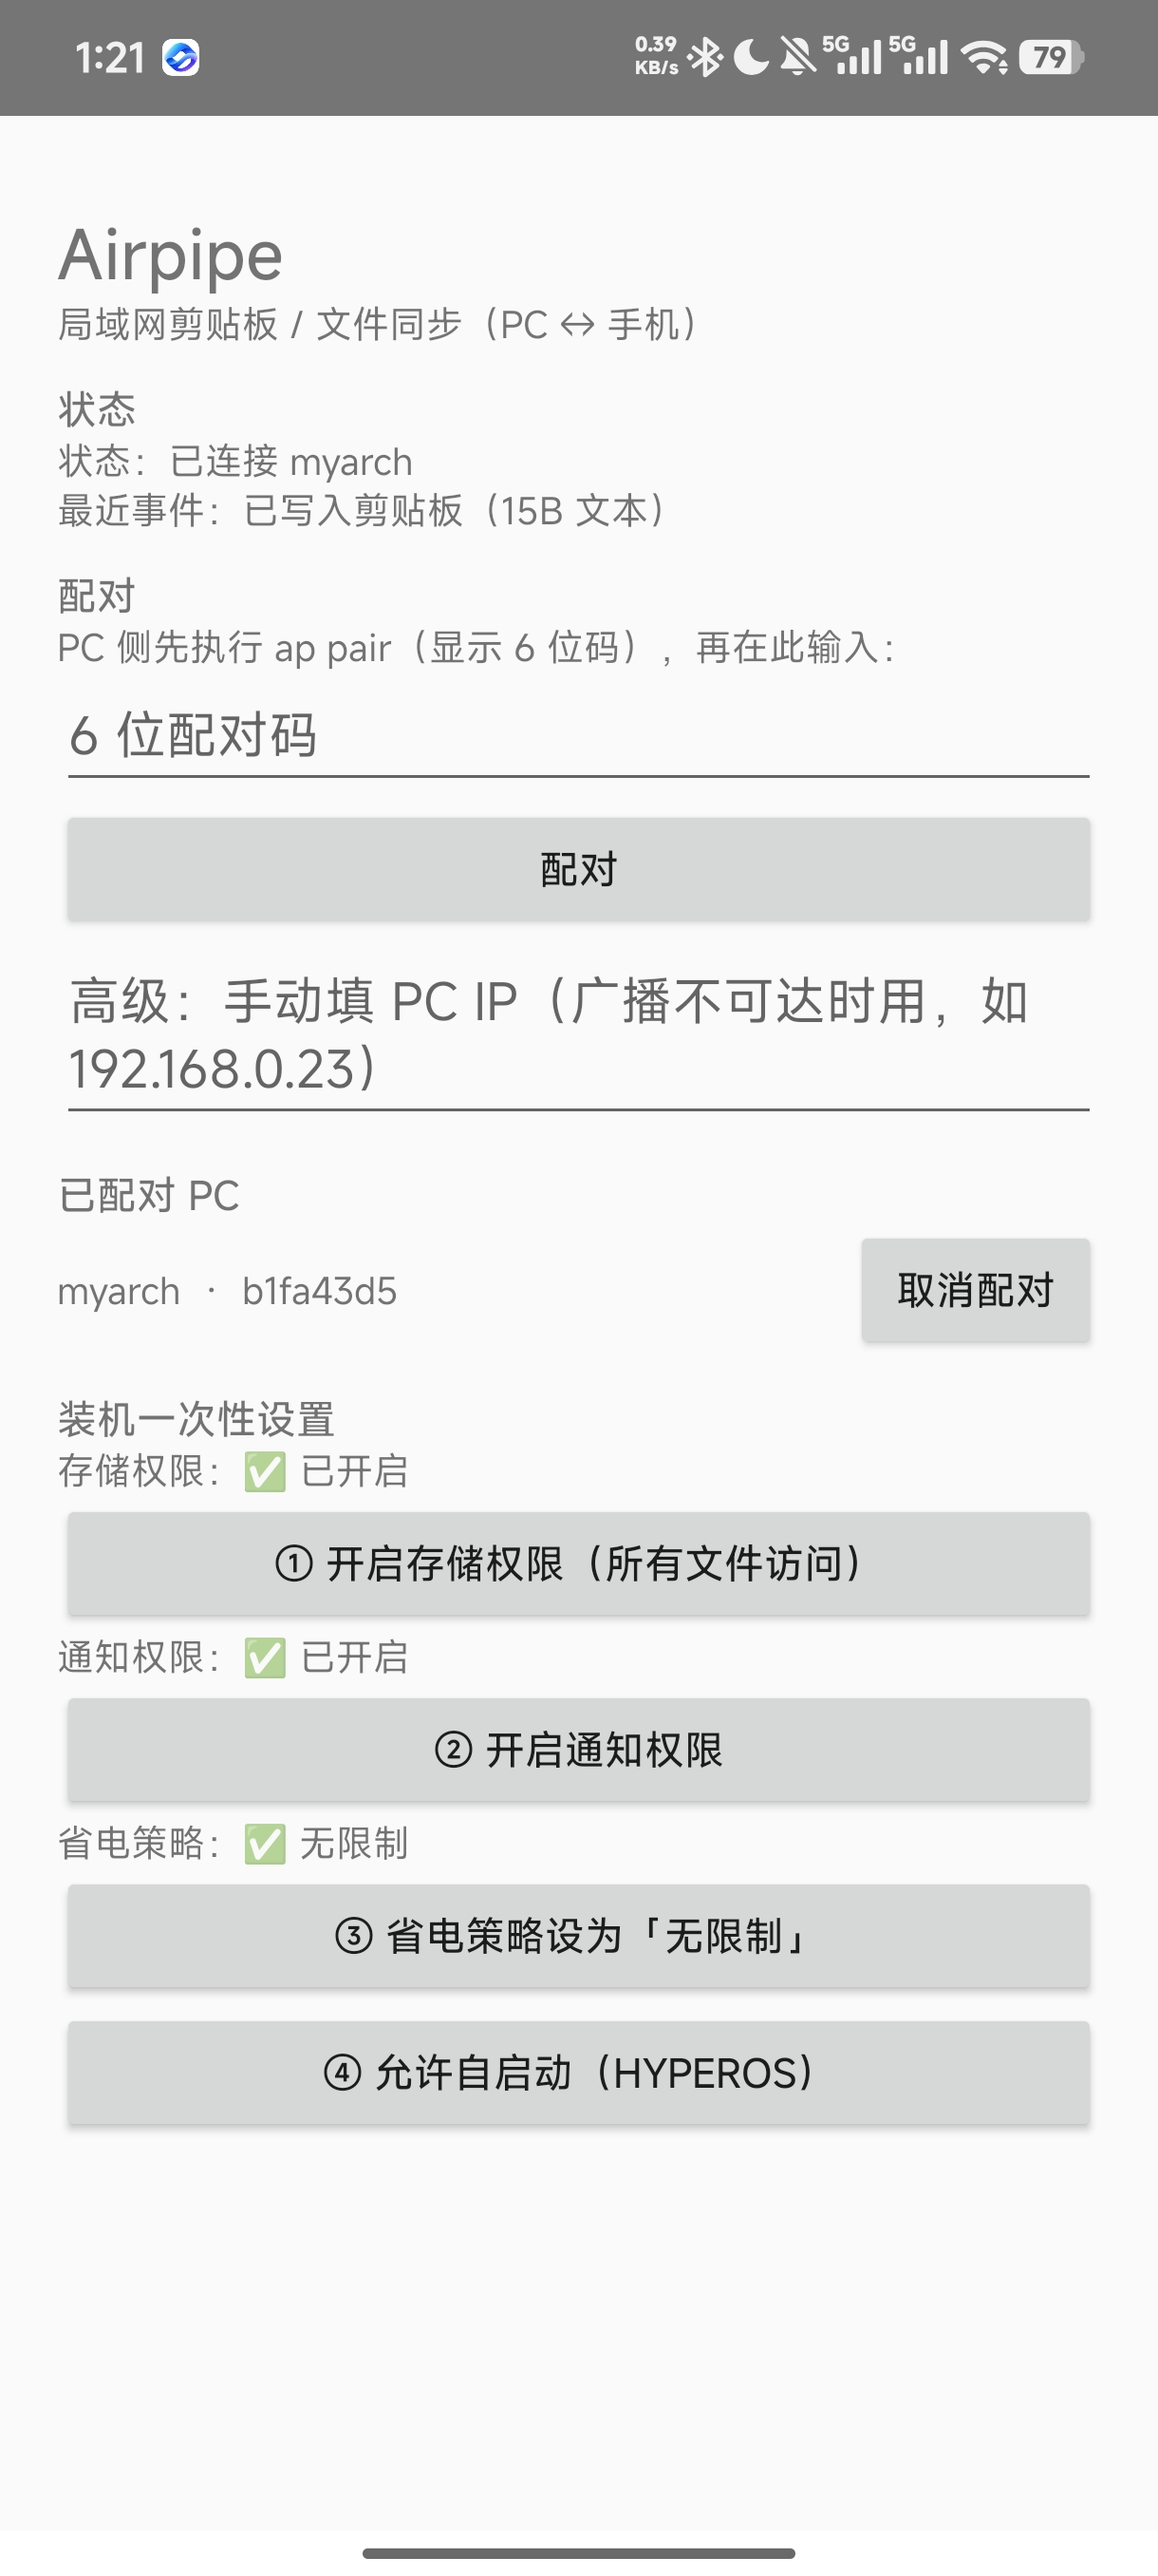
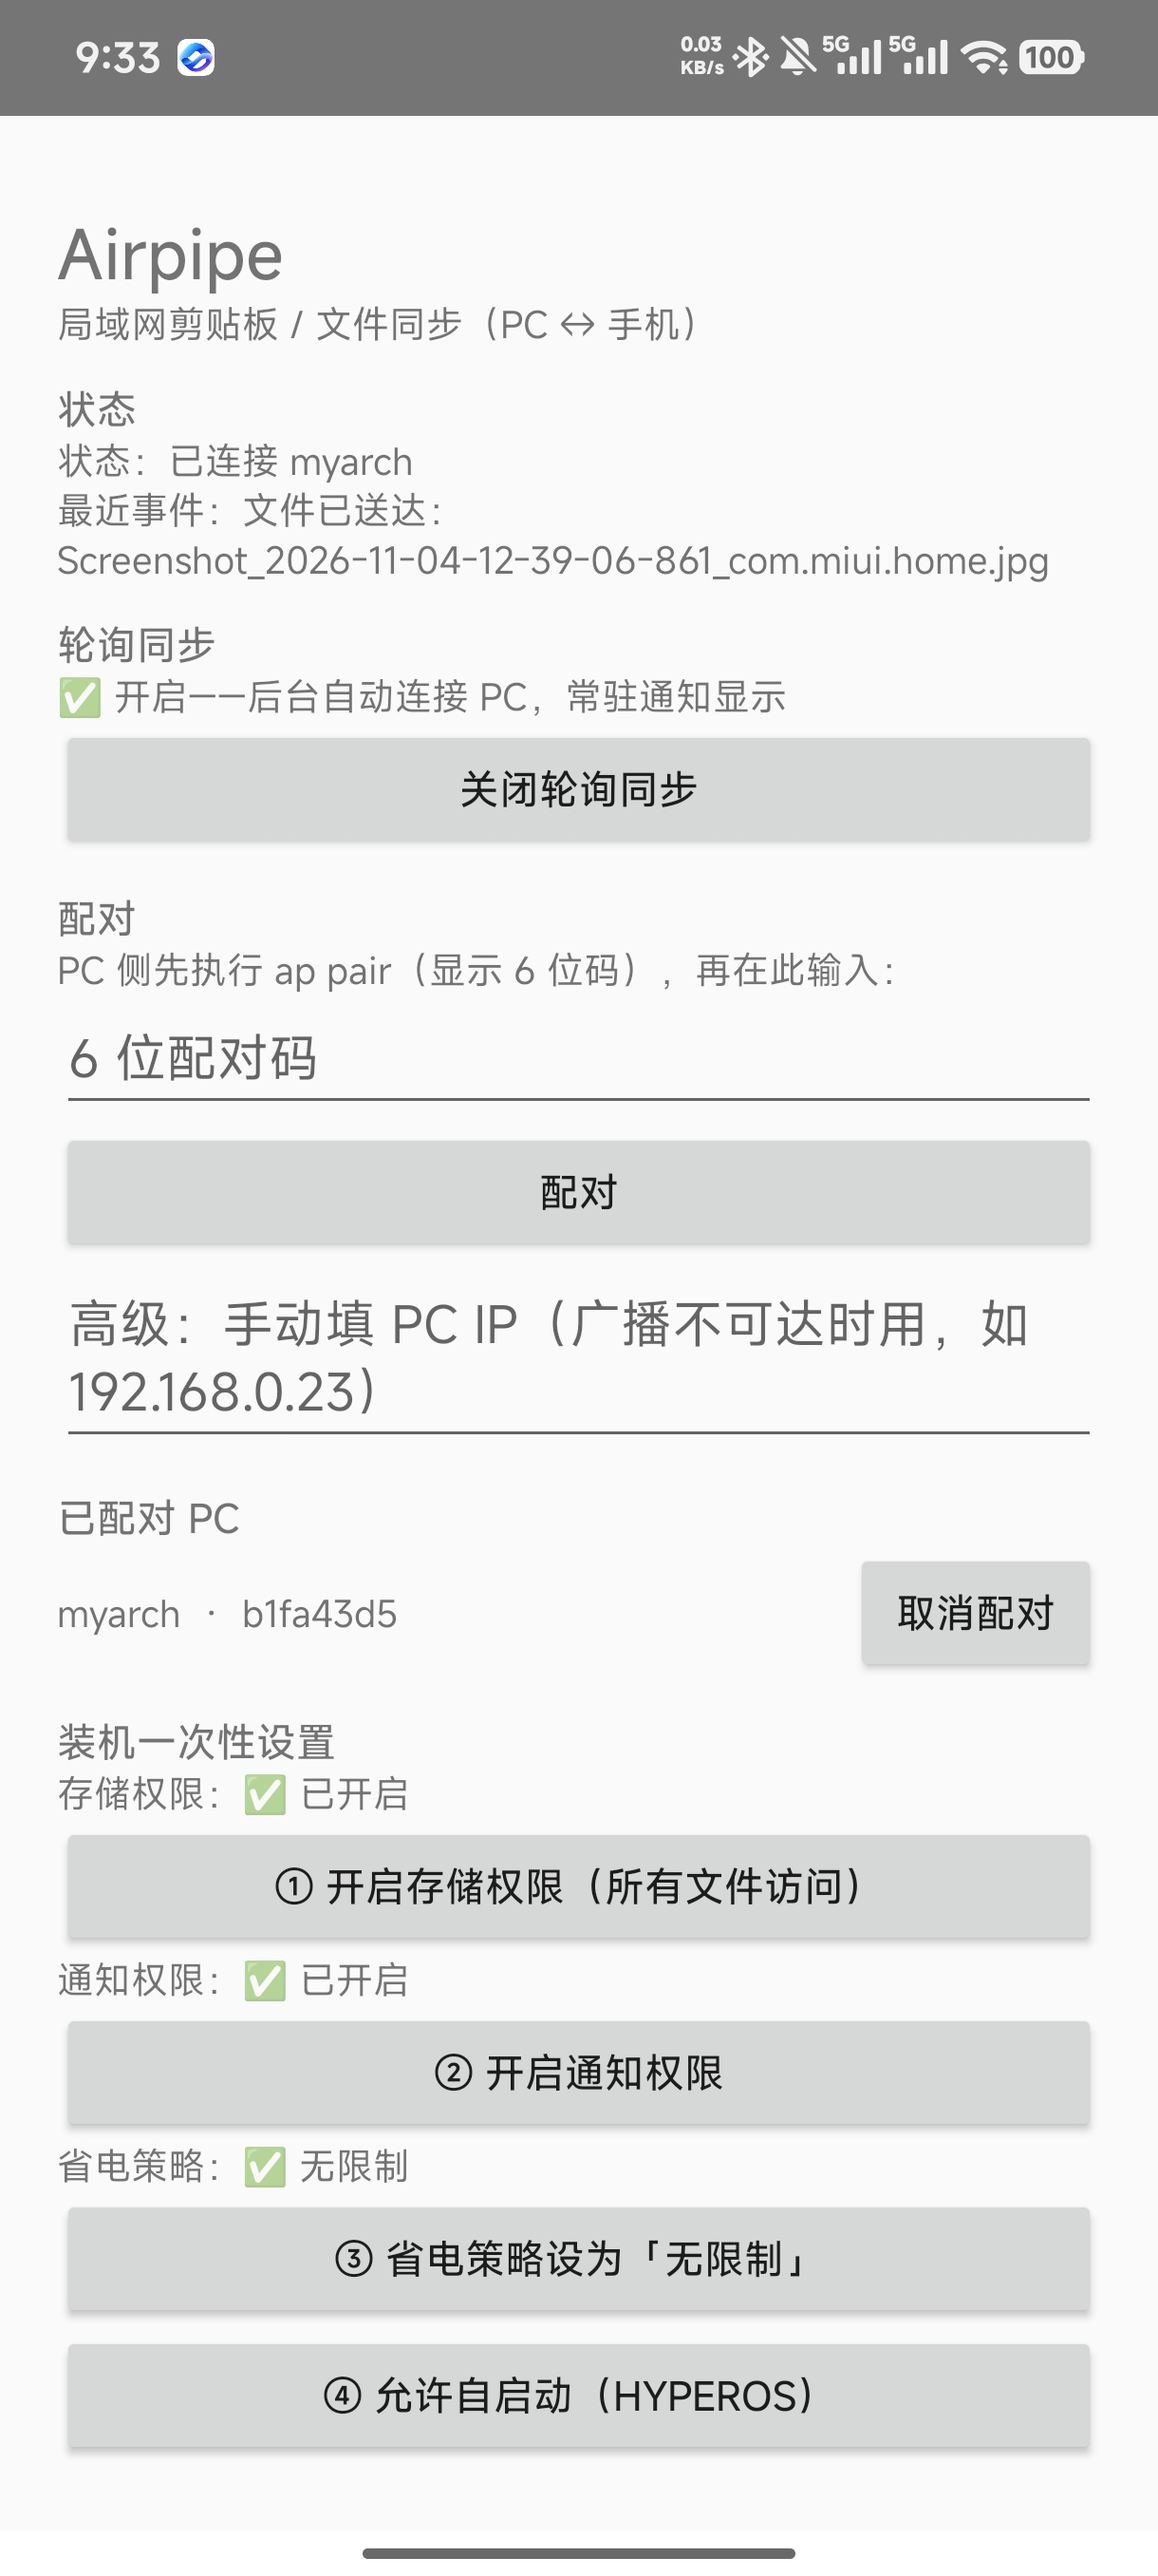
docs: update screenshot in README

diff --git a/README.md b/README.md
@@ -21,9 +21,9 @@
 
 **Android 端**
 
-| App 主界面 | 常驻通知（点按即同步 / 进度条） |
-| :---: | :---: |
-| <img src="assets/android_app.jpg" width="260" alt="App 主界面与授权引导"> | <img src="assets/android_notification.jpg" width="260" alt="常驻通知"> |
+| App 主界面 | 常驻通知 | 状态栏磁贴 |
+| :---: | :---: | :---: |
+| <img src="assets/android_app.jpg" width="260" alt="App 主界面与授权引导"> | <img src="assets/android_notification.jpg" width="260" alt="常驻通知"> | <img src="assets/android_status_bar.jpg" width="260" alt="状态栏磁贴"> |
 
 ## 架构
 
